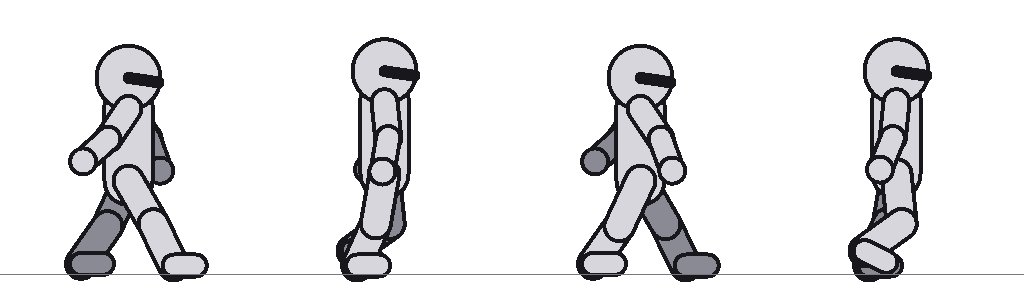
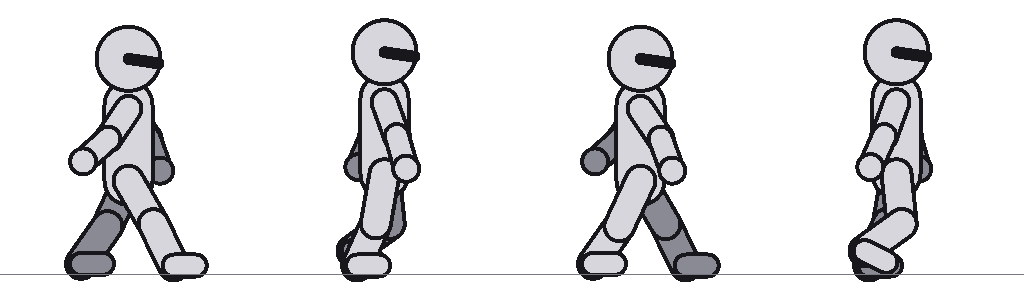
fix(mannequin): un cou visible, des bras qui ne s'effacent plus au passage
Deux défauts géométriques trouvés en zoomant sur le gabarit après la remarque
du PO — les précédents avaient déjà été corrigés sans le vérifier à cette
échelle.

Le bas de la tête tombait à 167 px, l'épaule à 166 : 1 px d'écart. Le bras
semblait partir du menton, et le capuchon du torse s'enfonçait dans la tête.
Ajout de NECK_GAP (16 px), qui sépare explicitement les deux.

Aux poses 1 et 3 (« appui » et « passage »), l'avant-bras vaut angle − coude ;
avec l'ancien réglage (angle proche de zéro, coude comparable en grandeur), les
deux se soustrayaient presque entièrement. Les deux bras retombaient à la
verticale, confondus avec le torse, invisibles dans la moitié du cycle — un
test sur l'ÉTENDUE du cycle ne le voyait pas, elle restait large grâce aux
seules poses de contact. Nouveau test qui mesure CHAQUE pose individuellement ;
preuve par mutation faite, il tombe sur l'ancien réglage.

Effet de bord constaté et laissé tel quel : le mannequin, plus haut, dilue
légèrement le contrôle de cycle sur la rangée de DOS (7 % contre 8 % de seuil).
Vérifié à l'oeil : les jambes vues de dos sont bien quasi identiques entre les
poses 0 et 3, un plafond physique réel (le va-et-vient avant/arrière ne se
projette pas de dos) que la mesure documentait déjà pour la rangée de face.
Ce n'est pas une régression du dessin, et ça ne concerne que mon outil de
vérification interne — pas les images livrées.

diff --git a/src/artprep/pose.ts b/src/artprep/pose.ts
@@ -71,6 +71,15 @@ export const HAND: number = 18;
 export const FOOT_R: number = 9;
 /** Longueur du nez, en avant du centre de la tête. */
 export const NOSE: number = 30;
+/**
+ * Espace visible entre le sommet du torse et le bas de la tête.
+ *
+ * Sans lui, la tête touchait quasiment l'épaule — mesuré, 1 px d'écart entre
+ * le bas de la tête et le pivot du bras. Le bras semblait alors partir du
+ * menton, et le capuchon du torse s'enfonçait visiblement dans la tête,
+ * lisible comme une seconde forme accolée à la première.
+ */
+export const NECK_GAP: number = 16;
 
 /** Nombre de poses du cycle. Quatre clés : contact, passage, contact inverse,
  *  passage inverse. Au-delà, un générateur interpole au lieu de créer. */
@@ -101,12 +110,20 @@ interface Side {
  * jambe du MÊME côté. Les avoir mis en phase aux poses de passage donnait un
  * balancier juste aux contacts et faux entre les deux — un défaut que l'œil ne
  * relève pas sur une image fixe.
+ *
+ * Aux poses 1 et 3, `elbow` reste PETIT : l'avant-bras vaut `arm - elbow`, et
+ * avec le réglage précédent (angle proche de zéro, coude comparable en
+ * grandeur), les deux se soustrayaient presque entièrement. Le bras retombait
+ * alors à la verticale, confondu avec le torse — invisible dans la moitié du
+ * cycle, ce que le PO a lu comme « les bras ne bougent pas bien ». Un coude
+ * franc n'a de sens qu'aux poses de contact, où le bras est déjà loin de la
+ * verticale et où le plier ne peut plus l'y ramener.
  */
 const LEFT: readonly Side[] = [
   { thigh: 30, knee: 4, arm: -34, elbow: 14, lift: false },   // contact, jambe gauche devant
-  { thigh: -10, knee: 14, arm: 6, elbow: 16, lift: false },   // appui, la gauche pousse
+  { thigh: -10, knee: 14, arm: 20, elbow: 4, lift: false },   // appui, la gauche pousse
   { thigh: -25, knee: 10, arm: 34, elbow: 14, lift: false },  // contact inverse, gauche derrière
-  { thigh: 6, knee: 60, arm: -6, elbow: 16, lift: true },     // passage, la gauche remonte
+  { thigh: 6, knee: 60, arm: -20, elbow: 4, lift: true },     // passage, la gauche remonte
 ];
 
 /** Un demi-corps construit : les articulations d'un seul côté. */
@@ -185,8 +202,8 @@ export function walkPose(pose: number): Joints {
   const lowest: number = Math.min(l.foot.y, r.foot.y) - FOOT_R;
   const drop = (p: Vec3): Vec3 => ({ x: p.x, y: p.y - lowest, z: p.z });
   return {
-    head: drop({ x: 0, y: NECK_Y + HEAD_R * 0.9, z: 0 }),
-    nose: drop({ x: 0, y: NECK_Y + HEAD_R * 0.75, z: NOSE }),
+    head: drop({ x: 0, y: NECK_Y + NECK_GAP + HEAD_R, z: 0 }),
+    nose: drop({ x: 0, y: NECK_Y + NECK_GAP + HEAD_R * 0.85, z: NOSE }),
     neck: drop({ x: 0, y: NECK_Y, z: 0 }),
     pelvis: drop(pelvis),
     shoulder: [drop(l.shoulder), drop(r.shoulder)],

diff --git a/src/artprep/pose.test.ts b/src/artprep/pose.test.ts
@@ -47,6 +47,20 @@ describe("walkPose — le balancier des bras", () => {
       expect(Math.max(...zs) - Math.min(...zs)).toBeGreaterThan(20);
     }
   });
+
+  it("écarte CHAQUE main du centre, à CHAQUE pose — jamais les deux ensemble à la verticale", () => {
+    // Le défaut réel, repéré par le PO sur le gabarit rendu : cette même mesure,
+    // avant correction, valait 21,7 aux poses de « passage » mais seulement 3 à
+    // 6 aux poses 1 et 3 — l'avant-bras (angle − coude) s'y annulait presque, et
+    // les deux bras retombaient à la verticale, confondus avec le torse. Un test
+    // sur l'ÉTENDUE du cycle (ci-dessus) ne le voyait pas : elle reste large
+    // grâce aux seules poses de contact.
+    for (const p of CYCLE) {
+      for (const side of [0, 1] as const) {
+        expect(Math.abs(p.hand[side]!.z)).toBeGreaterThan(15);
+      }
+    }
+  });
 });
 
 describe("walkPose — l'appui au sol", () => {
